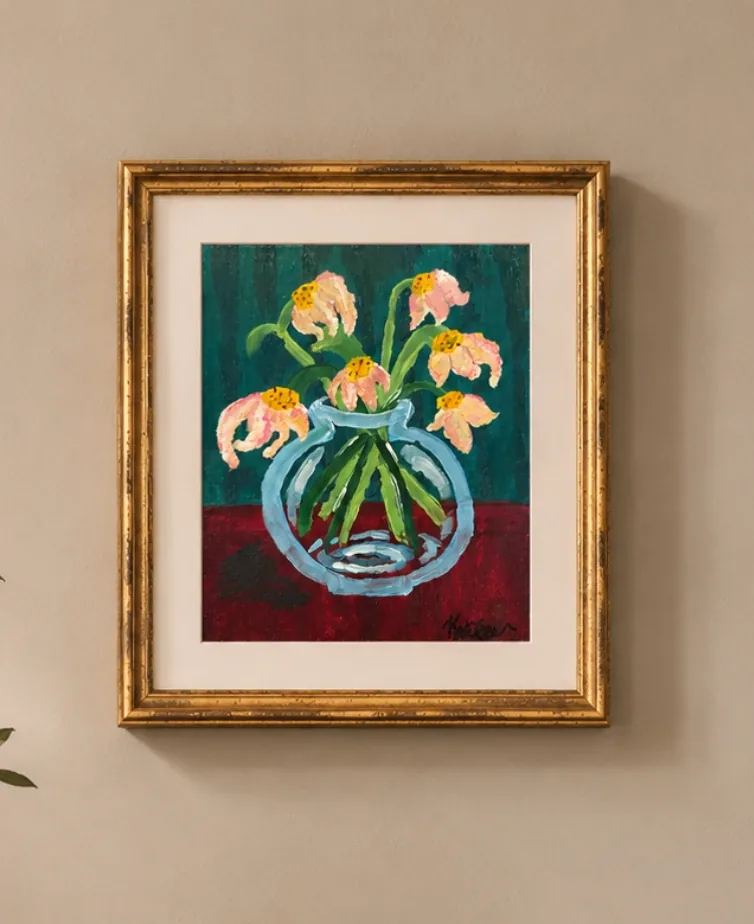
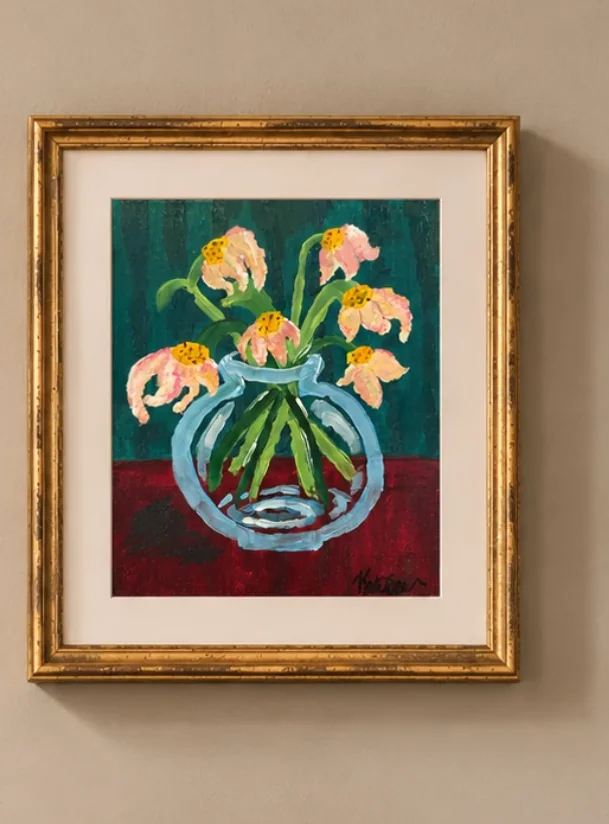
Crop 'Past Our Prime' closer to remove stray leaf

diff --git a/content/artworks.ts b/content/artworks.ts
@@ -126,8 +126,8 @@ export const artworks: Artwork[] = [
     medium: "Acrylic on canvas panel",
     dimensions: "8 × 10 in",
     image: "/art/past-our-prime.webp",
-    width: 754,
-    height: 924,
+    width: 609,
+    height: 824,
     alt: "A gold-framed acrylic painting on a pale wall: a loose bouquet of drooping pink and yellow blooms in a round blue glass vase on a deep red tabletop, against a teal-green ground.",
     order: 1.6,
     featured: true,
